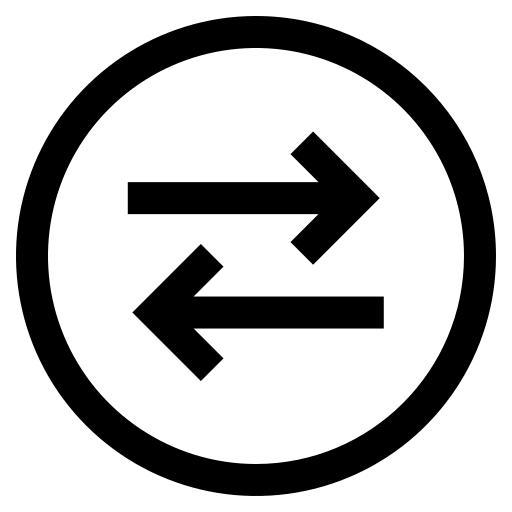
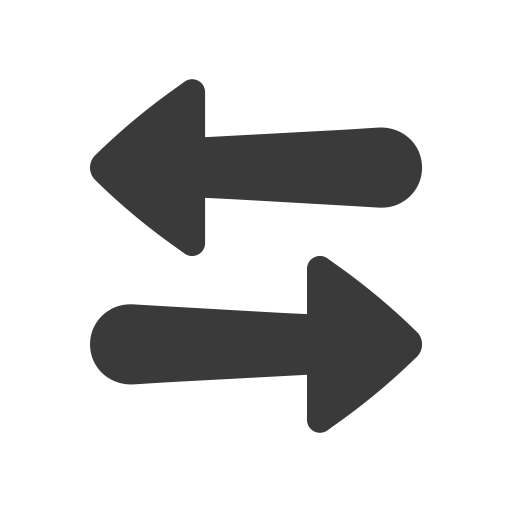
Removed unnecessary images

diff --git a/src/main/resources/it/units/sdm/brique/playerInit_style.css b/src/main/resources/it/units/sdm/brique/playerInit_style.css
@@ -15,7 +15,7 @@
 }
 
 .swapButton {
-    -fx-background-image: url("../brique/images/swap6.png");
+    -fx-background-image: url("../brique/images/swap.png");
     -fx-background-size: 50 50;
     -fx-background-position: center;
     -fx-pref-width: 55;
